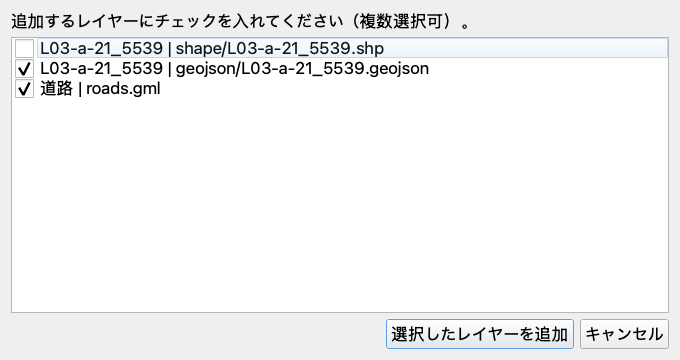
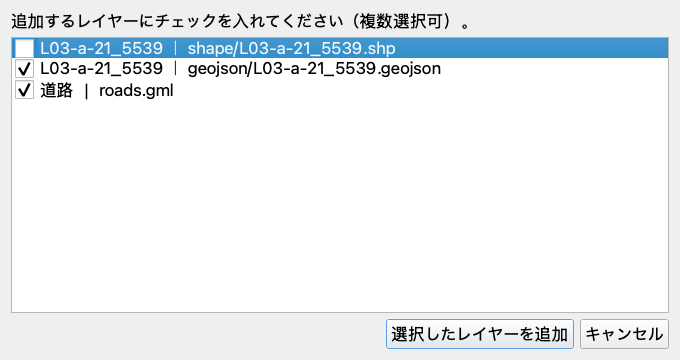
refactor: メッシュレイヤー選択のガードと重複を整理
- コールバック有効性の3条件を _is_current にまとめ、モーダル後の到達不能な再フィルタを削除
- choose_layers の try/finally を直線的な処理に展開
- 「追加済み」メッセージを定数化し、ラベル区切りを他画面と同じ全角「｜」に統一
- テストの layer_choices を呼び出し可能にし、layer_names / ksj_messages を共通化
- 区切り文字の変更に合わせて画面例を再生成

Claude-Session: https://claude.ai/code/session_01XPoeKy21BW5hyVSPAJFmU4

Changed region(s): [[0.0, 0.0917, 0.9882, 0.2139], [0.0309, 0.2139, 0.2779, 0.275]]

diff --git a/tests/test_mesh_index.py b/tests/test_mesh_index.py
@@ -54,9 +54,32 @@ def wait_for_loads(app):
     pump_until(app, lambda: not mesh_index._pending, timeout=10)
 
 
+def layer_names(exclude=None):
+    """プロジェクトのレイヤー名を、指定したレイヤーを除いて並べる。"""
+    return sorted(
+        layer.name()
+        for layer in QgsProject.instance().mapLayers().values()
+        if layer != exclude
+    )
+
+
+@pytest.fixture
+def ksj_messages(qgis_app):
+    """KSJタグで記録されたメッセージログを集める。"""
+    messages = []
+
+    def record(message, tag, level):
+        if tag == "KSJ":
+            messages.append(message)
+
+    qgis_app.messageLog().messageReceived.connect(record)
+    yield messages
+    qgis_app.messageLog().messageReceived.disconnect(record)
+
+
 @pytest.fixture
 def layer_choices(qgis_app):
-    """実ダイアログを操作し、一覧と未選択時の追加可否を記録する。"""
+    """実ダイアログに応答を順に返し、開いた一覧と未選択時の追加可否を記録する。"""
     responses, opened = [], []
 
     def answer():
@@ -83,10 +106,14 @@ def layer_choices(qgis_app):
             listing.item(row).setCheckState(Qt.CheckState.Checked)
         button.click()
 
+    def choose(*answers):
+        responses.extend(answers)
+        return opened
+
     timer = QTimer()
     timer.timeout.connect(answer)
     timer.start(10)
-    yield responses, opened
+    yield choose
     timer.stop()
 
 
@@ -299,8 +326,7 @@ def test_saved_index_action_loads_clicked_mesh_only(
 def test_removed_sublayer_can_be_loaded_again_without_duplicating_others(
     qgis_app, qgis_new_project, tmp_path, monkeypatch, layer_choices
 ):
-    responses, _ = layer_choices
-    responses.extend([[0, 1], [0]])
+    layer_choices([0, 1], [0])
     resource = local_resource(tmp_path, monkeypatch)
     index = mesh_index.add_mesh_index("道路", [resource])
     feature_id = next(index.getFeatures()).id()
@@ -314,51 +340,44 @@ def test_removed_sublayer_can_be_loaded_again_without_duplicating_others(
     project.removeMapLayer(removed.id())
     mesh_index.load_mesh(index.id(), feature_id)
     wait_for_loads(qgis_app)
-    assert sorted(layer.name() for layer in project.mapLayers().values()) == [
-        "one",
-        "two",
-        index.name(),
-    ]
+    assert layer_names() == ["one", "two", index.name()]
 
 
 def test_mesh_adds_only_checked_layers_and_can_add_remaining_later(
     qgis_app, qgis_new_project, tmp_path, monkeypatch, layer_choices
 ):
     resource = local_resource(tmp_path, monkeypatch, ("one", "two", "three"))
-    responses, opened = layer_choices
-    responses.extend([[0, 2], [0]])
+    opened = layer_choices([0, 2], [0])
     index = mesh_index.add_mesh_index("道路", [resource])
     feature_id = next(index.getFeatures()).id()
-    project = QgsProject.instance()
 
     mesh_index.load_mesh(index.id(), feature_id)
     wait_for_loads(qgis_app)
-    assert sorted(
-        layer.name() for layer in project.mapLayers().values() if layer != index
-    ) == ["one", "two"]
-    assert len(opened) == 1 and len(opened[0][0]) == 3
-    assert opened[0][1] is False
+    assert layer_names(index) == ["one", "two"]
+    assert len(opened) == 1
+    texts, can_add = opened[0]
+    assert len(texts) == 3
+    assert can_add is False
 
     mesh_index.load_mesh(index.id(), feature_id)
     wait_for_loads(qgis_app)
-    assert sorted(
-        layer.name() for layer in project.mapLayers().values() if layer != index
-    ) == ["one", "three", "two"]
-    assert len(opened) == 2 and len(opened[1][0]) == 1
-    assert "three.geojson" in opened[1][0][0]
+    assert layer_names(index) == ["one", "three", "two"]
+    assert len(opened) == 2
+    texts, _ = opened[1]
+    assert len(texts) == 1
+    assert "three.geojson" in texts[0]
 
     mesh_index.load_mesh(index.id(), feature_id)
     wait_for_loads(qgis_app)
     assert len(opened) == 2
-    assert len(project.mapLayers()) == 4
+    assert len(QgsProject.instance().mapLayers()) == 4
 
 
 def test_mesh_layer_selection_can_be_canceled_and_retried(
     qgis_app, qgis_new_project, tmp_path, monkeypatch, layer_choices
 ):
     resource = local_resource(tmp_path, monkeypatch)
-    responses, opened = layer_choices
-    responses.extend([None, [1]])
+    opened = layer_choices(None, [1])
     index = mesh_index.add_mesh_index("道路", [resource])
     feature_id = next(index.getFeatures()).id()
     mesh_index.load_mesh(index.id(), feature_id)
@@ -367,9 +386,7 @@ def test_mesh_layer_selection_can_be_canceled_and_retried(
     mesh_index.load_mesh(index.id(), feature_id)
     wait_for_loads(qgis_app)
     assert len(opened) == 2
-    assert sorted(
-        layer.name() for layer in QgsProject.instance().mapLayers().values()
-    ) == ["two", index.name()]
+    assert layer_names() == ["two", index.name()]
 
 
 def test_mesh_selection_distinguishes_shapefile_and_geojson_of_same_data(
@@ -388,8 +405,7 @@ def test_mesh_selection_distinguishes_shapefile_and_geojson_of_same_data(
     with zipfile.ZipFile(tmp_path / "data.zip", "a") as archive:
         for path in shapefile.parent.iterdir():
             archive.write(path, path.name)
-    responses, opened = layer_choices
-    responses.append([0])
+    opened = layer_choices([0])
     index = mesh_index.add_mesh_index("道路", [resource])
     mesh_index.load_mesh(index.id(), next(index.getFeatures()).id())
     wait_for_loads(qgis_app)
@@ -400,8 +416,9 @@ def test_mesh_selection_distinguishes_shapefile_and_geojson_of_same_data(
     assert "roads.geojson" in data[0].source()
     assert data[0].featureCount() == 1
     assert len(opened) == 1
-    assert "roads.geojson" in opened[0][0][0]
-    assert "roads.shp" in opened[0][0][1]
+    texts, _ = opened[0]
+    assert "roads.geojson" in texts[0]
+    assert "roads.shp" in texts[1]
 
 
 @pytest.mark.parametrize("driver,suffix", [("GPKG", ".gpkg"), ("GML", ".gml")])
@@ -416,8 +433,7 @@ def test_mesh_selects_individual_sublayers_and_raster(
     with zipfile.ZipFile(tmp_path / "data.zip", "a") as archive:
         for path in source.iterdir():
             archive.write(path, path.name)
-    responses, opened = layer_choices
-    responses.append([0, 2])
+    opened = layer_choices([0, 2])
     index = mesh_index.add_mesh_index("道路", [resource])
     mesh_index.load_mesh(index.id(), next(index.getFeatures()).id())
     wait_for_loads(qgis_app)
@@ -430,7 +446,8 @@ def test_mesh_selects_individual_sublayers_and_raster(
     assert data["stations"].featureCount() == 1
     assert data["elevation.tif"].isValid()
     assert data["elevation.tif"].providerType() == "gdal"
-    assert len(opened[0][0]) == 3
+    texts, _ = opened[0]
+    assert len(texts) == 3
 
 
 @pytest.mark.parametrize("remove_index", [False, True])
@@ -447,8 +464,7 @@ def test_cancel_or_remove_index_during_selection_prevents_additions(
             mesh_index.cancel_pending()
         return [0, 1]
 
-    responses, opened = layer_choices
-    responses.append(cancel_while_open)
+    opened = layer_choices(cancel_while_open)
     mesh_index.load_mesh(index.id(), next(index.getFeatures()).id())
     wait_for_loads(qgis_app)
     assert len(opened) == 1
@@ -521,27 +537,17 @@ def test_invalid_loaded_layer_can_be_retried(
 
 
 def test_retry_reports_broken_file_even_when_readable_layers_are_already_added(
-    qgis_app, qgis_new_project, tmp_path, monkeypatch
+    qgis_app, qgis_new_project, tmp_path, monkeypatch, ksj_messages
 ):
     resource = local_resource(tmp_path, monkeypatch, ("one",))
     with zipfile.ZipFile(tmp_path / "data.zip", "a") as archive:
         archive.writestr("broken.geojson", "broken")
     index = mesh_index.add_mesh_index("道路", [resource])
-    messages = []
-
-    def record(message, tag, level):
-        if tag == "KSJ":
-            messages.append(message)
-
-    qgis_app.messageLog().messageReceived.connect(record)
-    try:
-        for _ in range(2):
-            mesh_index.load_mesh(index.id(), next(index.getFeatures()).id())
-            wait_for_loads(qgis_app)
-            assert len(QgsProject.instance().mapLayers()) == 2
-            assert "broken.geojson" in messages[-1]
-    finally:
-        qgis_app.messageLog().messageReceived.disconnect(record)
+    for _ in range(2):
+        mesh_index.load_mesh(index.id(), next(index.getFeatures()).id())
+        wait_for_loads(qgis_app)
+        assert len(QgsProject.instance().mapLayers()) == 2
+        assert "broken.geojson" in ksj_messages[-1]
 
 
 @pytest.mark.parametrize("accept", [False, True])
@@ -583,33 +589,24 @@ def test_format_dialog_selects_exact_resource_or_cancels(
 
 
 def test_failure_is_reported_and_allows_retry(
-    qgis_app, qgis_new_project, tmp_path, monkeypatch
+    qgis_app, qgis_new_project, tmp_path, monkeypatch, ksj_messages
 ):
     resource = local_resource(tmp_path, monkeypatch, ("one",))
     index = mesh_index.add_mesh_index("道路", [resource])
     scanner = mesh_index.scan_resource
-    messages = []
 
     def fail(task, url, directory):
         raise RuntimeError("テスト用の接続失敗")
 
-    def record(message, tag, level):
-        if tag == "KSJ":
-            messages.append(message)
-
-    qgis_app.messageLog().messageReceived.connect(record)
-    try:
-        monkeypatch.setattr(mesh_index, "scan_resource", fail)
-        mesh_index.load_mesh(index.id(), next(index.getFeatures()).id())
-        wait_for_loads(qgis_app)
-        assert len(QgsProject.instance().mapLayers()) == 1
-        assert any("テスト用の接続失敗" in message for message in messages)
-        monkeypatch.setattr(mesh_index, "scan_resource", scanner)
-        mesh_index.load_mesh(index.id(), next(index.getFeatures()).id())
-        wait_for_loads(qgis_app)
-        assert len(QgsProject.instance().mapLayers()) == 2
-    finally:
-        qgis_app.messageLog().messageReceived.disconnect(record)
+    monkeypatch.setattr(mesh_index, "scan_resource", fail)
+    mesh_index.load_mesh(index.id(), next(index.getFeatures()).id())
+    wait_for_loads(qgis_app)
+    assert len(QgsProject.instance().mapLayers()) == 1
+    assert any("テスト用の接続失敗" in message for message in ksj_messages)
+    monkeypatch.setattr(mesh_index, "scan_resource", scanner)
+    mesh_index.load_mesh(index.id(), next(index.getFeatures()).id())
+    wait_for_loads(qgis_app)
+    assert len(QgsProject.instance().mapLayers()) == 2
 
 
 @pytest.mark.parametrize("remove_index", [False, True])

diff --git a/ksj/mesh_index.py b/ksj/mesh_index.py
@@ -39,6 +39,7 @@ from . import catalog, local_storage, zip_scanner
 INDEX_PROPERTY = "ksj/mesh_index"
 RESOURCE_PROPERTY = "ksj/resource_url"
 _pending = {}
+ALREADY_ADDED_MESSAGE = "この配布ファイルは追加済みです。"
 
 
 def mesh_groups(resources):
@@ -240,10 +241,10 @@ def choose_layers(layers):
         QLabel("追加するレイヤーにチェックを入れてください（複数選択可）。")
     )
     listing = QListWidget(dialog)
-    root = commonpath([str(Path(path).parent) for _, path, _, _ in layers])
+    root = commonpath([Path(path).parent for _, path, _, _ in layers])
     for _, path, name, _ in layers:
         relative = Path(path).relative_to(root).as_posix()
-        item = QListWidgetItem(f"{name} | {relative}", listing)
+        item = QListWidgetItem(f"{name} ｜ {relative}", listing)
         item.setToolTip(path)
         item.setFlags(item.flags() | Qt.ItemFlag.ItemIsUserCheckable)
         item.setCheckState(Qt.CheckState.Unchecked)
@@ -268,15 +269,22 @@ def choose_layers(layers):
 
     listing.itemChanged.connect(lambda: add_button.setEnabled(bool(checked_layers())))
     dialog.resize(680, 360)
-    try:
-        return checked_layers() if dialog.exec() == QDialog.DialogCode.Accepted else []
-    finally:
-        dialog.deleteLater()
+    accepted = dialog.exec() == QDialog.DialogCode.Accepted
+    selected = checked_layers() if accepted else []
+    dialog.deleteLater()
+    return selected
+
+
+def _is_current(task, layer_id, url):
+    """この結果を反映してよいか。取り消し・索引の削除・アンロードの後は捨てる。"""
+    return (
+        _pending.get(url) is task
+        and not task.isCanceled()
+        and QgsProject.instance().mapLayer(layer_id) is not None
+    )
 
 
 def finish_loading(task, layer_id, url, exception, result=None):
-    if _pending.get(url) is not task:
-        return
     try:
         _finish_loading(task, layer_id, url, exception, result)
     finally:
@@ -285,11 +293,7 @@ def finish_loading(task, layer_id, url, exception, result=None):
 
 
 def _finish_loading(task, layer_id, url, exception, result):
-    if task.isCanceled():
-        return
-    project = QgsProject.instance()
-    index_layer = project.mapLayer(layer_id)
-    if index_layer is None:
+    if not _is_current(task, layer_id, url):
         return
     if exception is not None:
         notify(f"データを取得できません: {exception}", warning=True)
@@ -311,22 +315,18 @@ def _finish_loading(task, layer_id, url, exception, result):
         if result["failed"]:
             notify(f"読み込み失敗: {', '.join(result['failed'])}", warning=True)
         else:
-            notify("この配布ファイルは追加済みです。")
+            notify(ALREADY_ADDED_MESSAGE)
         return
+    # 複数レイヤーの配布なら、残りが1件でも利用者に確認してから追加する。
     selected = choose_layers(candidates) if len(result["layers"]) > 1 else candidates
     # モーダル画面の表示中もイベントが処理されるため、状態を再確認する。
-    if (
-        not selected
-        or _pending.get(url) is not task
-        or task.isCanceled()
-        or project.mapLayer(layer_id) is None
-    ):
+    if not selected or not _is_current(task, layer_id, url):
         return
-    present = loaded_sources(url)
+    project = QgsProject.instance()
+    index_layer = project.mapLayer(layer_id)
     added, failed = 0, list(result["failed"])
+    # 同じ配布の二重起動は _pending が防ぐため、候補はモーダル後も未追加のままである。
     for provider, path, name, uri in selected:
-        if uri in present:
-            continue
         layer_class = QgsVectorLayer if provider == "ogr" else QgsRasterLayer
         layer = layer_class(uri, name, provider)
         if not layer.isValid():
@@ -334,7 +334,6 @@ def _finish_loading(task, layer_id, url, exception, result):
             continue
         layer.setCustomProperty(RESOURCE_PROPERTY, url)
         project.addMapLayer(layer)
-        present.add(uri)
         added += 1
     if utils.iface is not None:
         utils.iface.setActiveLayer(index_layer)
@@ -343,6 +342,7 @@ def _finish_loading(task, layer_id, url, exception, result):
             f"{added}レイヤーを追加。読み込み失敗: {', '.join(failed)}", warning=True
         )
     else:
+        # 選んだ分ではなく配布の全レイヤーを記録し、load_mesh が全件追加済みの判定に使う。
         index_layer.setCustomProperty(f"ksj/loaded/{url}", sources)
         notify(f"{added}レイヤーを追加しました。続けて別のメッシュを選べます。")
 
@@ -363,7 +363,7 @@ def load_mesh(layer_id, feature_id):
         return
     expected = layer.customProperty(f"ksj/loaded/{url}", [])
     if expected and set(expected).issubset(loaded_sources(url)):
-        notify("この配布ファイルは追加済みです。")
+        notify(ALREADY_ADDED_MESSAGE)
         return
     directory = (
         local_storage.download_directory() or local_storage.choose_download_directory()
